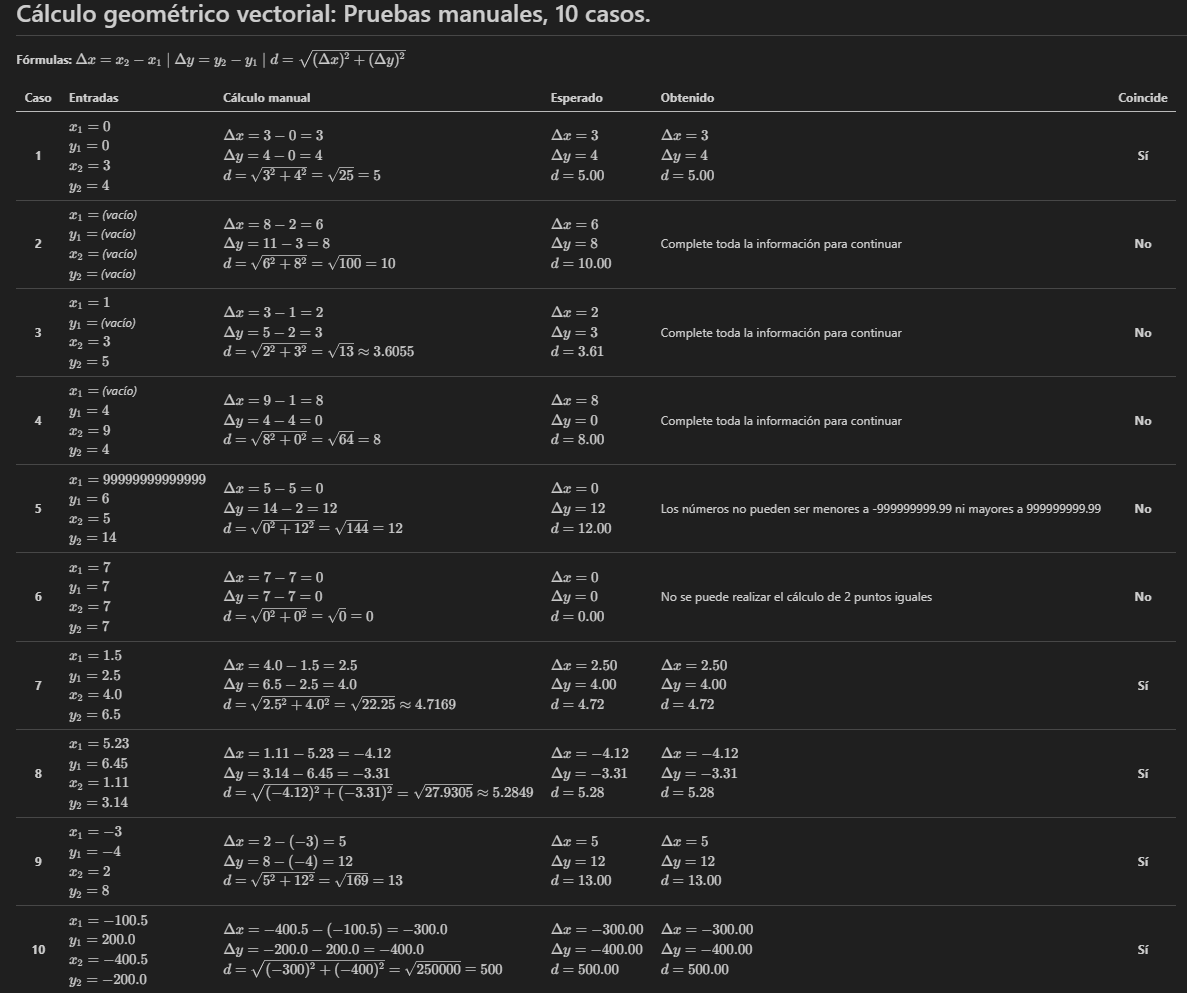
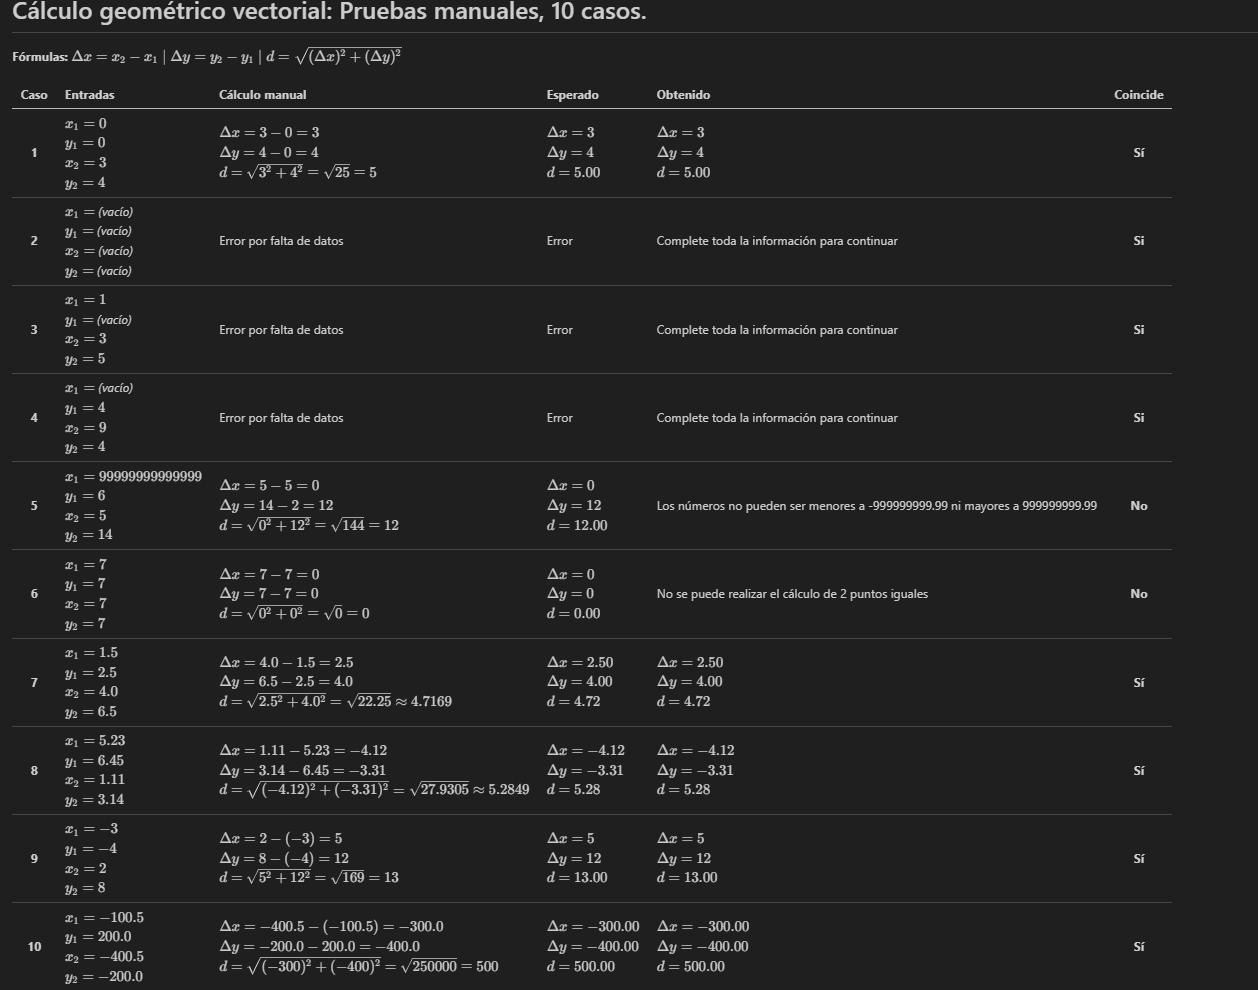
Se cambiaron las tablas comos e indico en comentario

diff --git a/problemas/problema1/pruebas/casos-prueba.md b/problemas/problema1/pruebas/casos-prueba.md
@@ -5,9 +5,9 @@
 | Caso | Entradas | Cálculo manual | Esperado | Obtenido | Coincide |
 | :---: | :--- | :--- | :--- | :--- | :---: |
 | **1** | $x_1 = 0$<br>$y_1 = 0$<br>$x_2 = 3$<br>$y_2 = 4$ | $\Delta x = 3 - 0 = 3$<br>$\Delta y = 4 - 0 = 4$<br>$d = \sqrt{3^2 + 4^2} = \sqrt{25} = 5$ | $\Delta x = 3$<br>$\Delta y = 4$<br>$d = 5.00$ | $\Delta x = 3$<br>$\Delta y = 4$<br>$d = 5.00$ | **Sí** |
-| **2** | $x_1 = $ *(vacío)*<br>$y_1 = $ *(vacío)*<br>$x_2 = $ *(vacío)*<br>$y_2 = $ *(vacío)* | $\Delta x = 8 - 2 = 6$<br>$\Delta y = 11 - 3 = 8$<br>$d = \sqrt{6^2 + 8^2} = \sqrt{100} = 10$ | $\Delta x = 6$<br>$\Delta y = 8$<br>$d = 10.00$ | Complete toda la información para continuar | **No** |
-| **3** | $x_1 = 1$<br>$y_1 = $ *(vacío)*<br>$x_2 = 3$<br>$y_2 = 5$ | $\Delta x = 3 - 1 = 2$<br>$\Delta y = 5 - 2 = 3$<br>$d = \sqrt{2^2 + 3^2} = \sqrt{13} \approx 3.6055$ | $\Delta x = 2$<br>$\Delta y = 3$<br>$d = 3.61$ | Complete toda la información para continuar | **No** |
-| **4** | $x_1 = $ *(vacío)*<br>$y_1 = 4$<br>$x_2 = 9$<br>$y_2 = 4$ | $\Delta x = 9 - 1 = 8$<br>$\Delta y = 4 - 4 = 0$<br>$d = \sqrt{8^2 + 0^2} = \sqrt{64} = 8$ | $\Delta x = 8$<br>$\Delta y = 0$<br>$d = 8.00$ | Complete toda la información para continuar | **No** |
+| **2** | $x_1 = $ *(vacío)*<br>$y_1 = $ *(vacío)*<br>$x_2 = $ *(vacío)*<br>$y_2 = $ *(vacío)* |  Error por falta de datos | Error | Complete toda la información para continuar | **Si** |
+| **3** | $x_1 = 1$<br>$y_1 = $ *(vacío)*<br>$x_2 = 3$<br>$y_2 = 5$ | Error por falta de datos | Error | Complete toda la información para continuar | **Si** |
+| **4** | $x_1 = $ *(vacío)*<br>$y_1 = 4$<br>$x_2 = 9$<br>$y_2 = 4$ | Error por falta de datos | Error | Complete toda la información para continuar | **Si** |
 | **5** | $x_1 = 99999999999999$<br>$y_1 = 6$<br>$x_2 = 5$<br>$y_2 = 14$ | $\Delta x = 5 - 5 = 0$<br>$\Delta y = 14 - 2 = 12$<br>$d = \sqrt{0^2 + 12^2} = \sqrt{144} = 12$ | $\Delta x = 0$<br>$\Delta y = 12$<br>$d = 12.00$ | Los números no pueden ser menores a -999999999.99 ni mayores a 999999999.99 | **No** |
 | **6** | $x_1 = 7$<br>$y_1 = 7$<br>$x_2 = 7$<br>$y_2 = 7$ | $\Delta x = 7 - 7 = 0$<br>$\Delta y = 7 - 7 = 0$<br>$d = \sqrt{0^2 + 0^2} = \sqrt{0} = 0$ | $\Delta x = 0$<br>$\Delta y = 0$<br>$d = 0.00$ | No se puede realizar el cálculo de 2 puntos iguales | **No** |
 | **7** | $x_1 = 1.5$<br>$y_1 = 2.5$<br>$x_2 = 4.0$<br>$y_2 = 6.5$ | $\Delta x = 4.0 - 1.5 = 2.5$<br>$\Delta y = 6.5 - 2.5 = 4.0$<br>$d = \sqrt{2.5^2 + 4.0^2} = \sqrt{22.25} \approx 4.7169$ | $\Delta x = 2.50$<br>$\Delta y = 4.00$<br>$d = 4.72$ | $\Delta x = 2.50$<br>$\Delta y = 4.00$<br>$d = 4.72$ | **Sí** |
